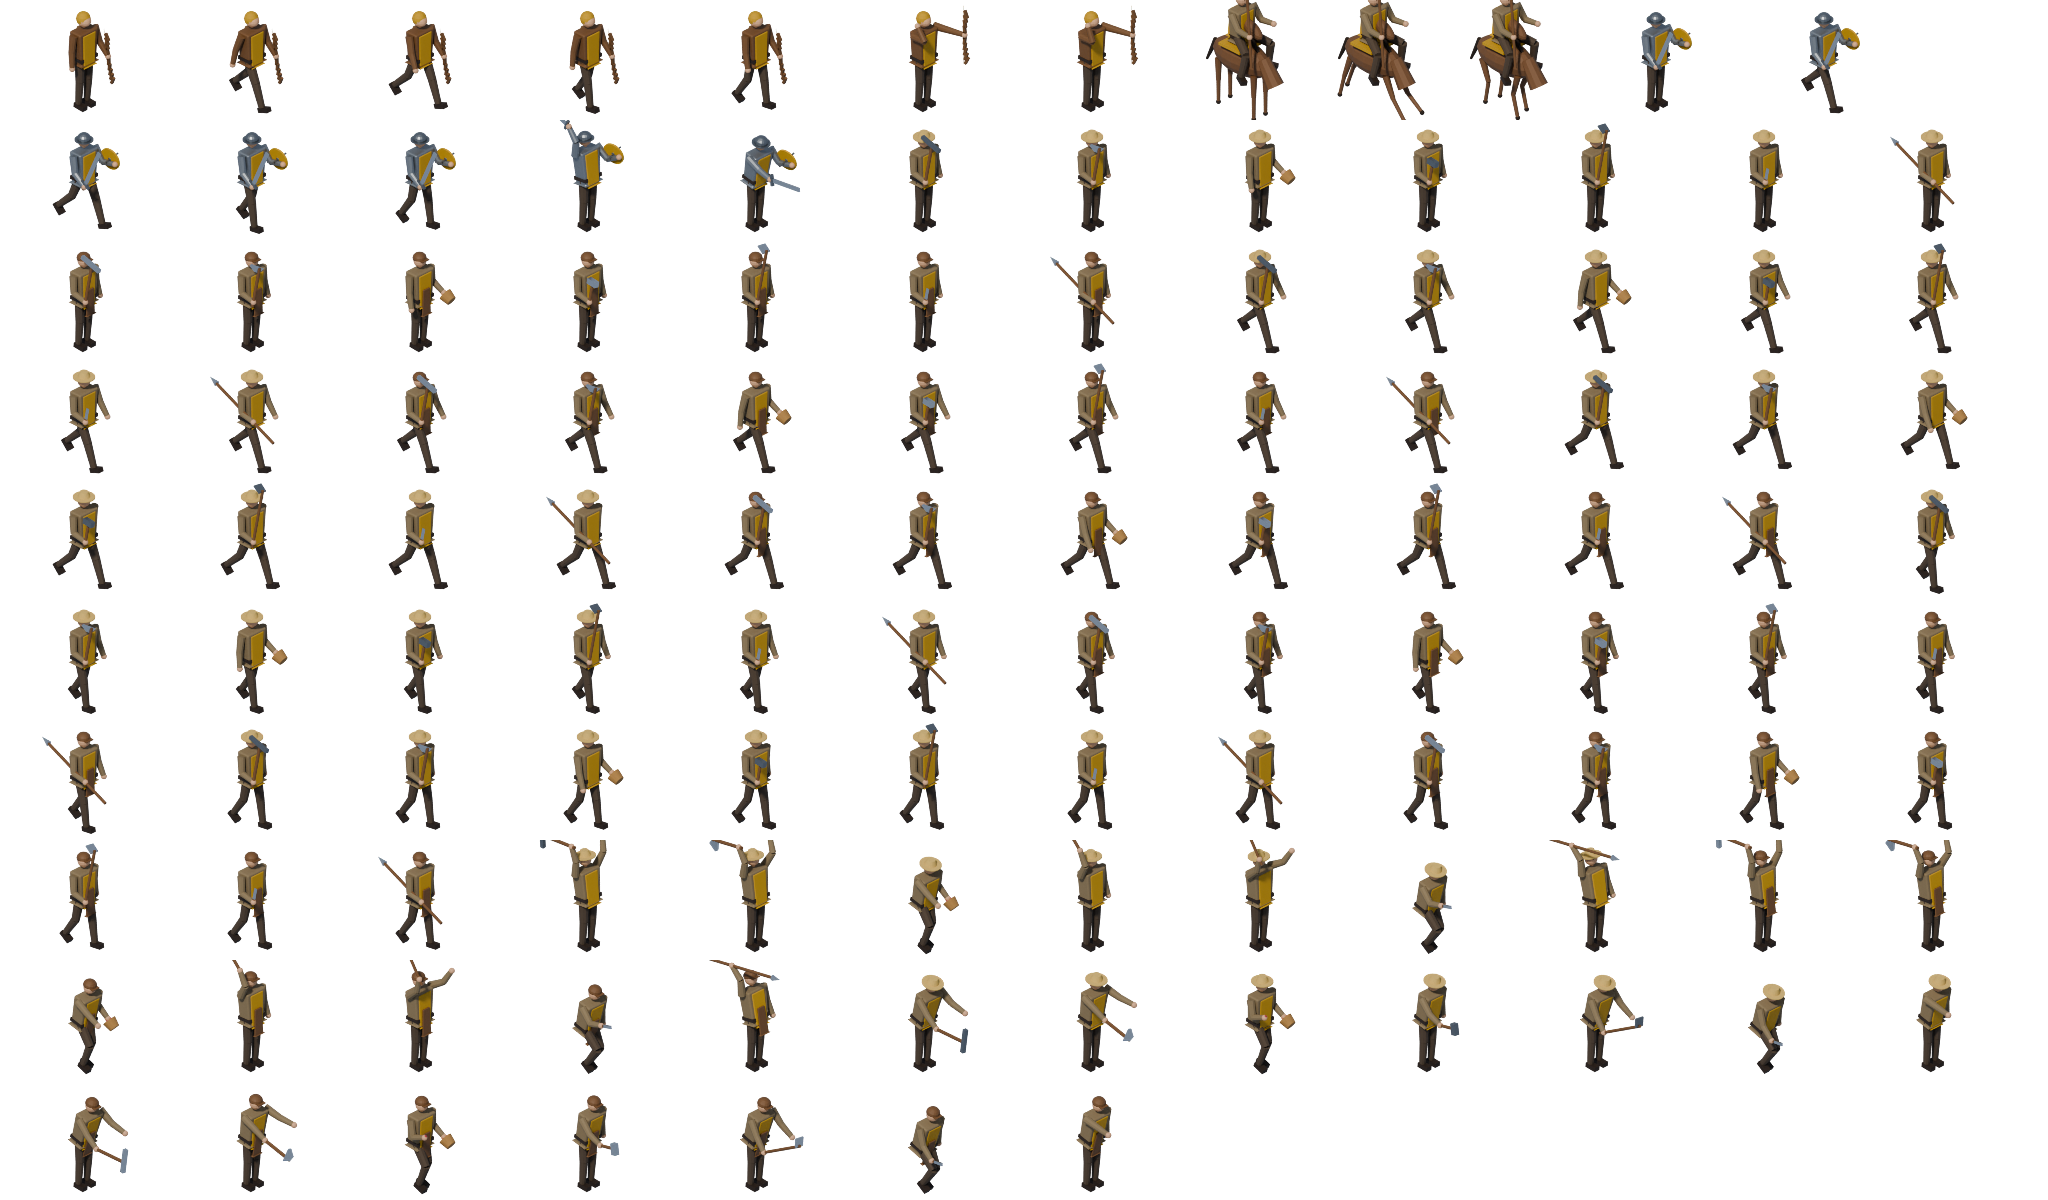
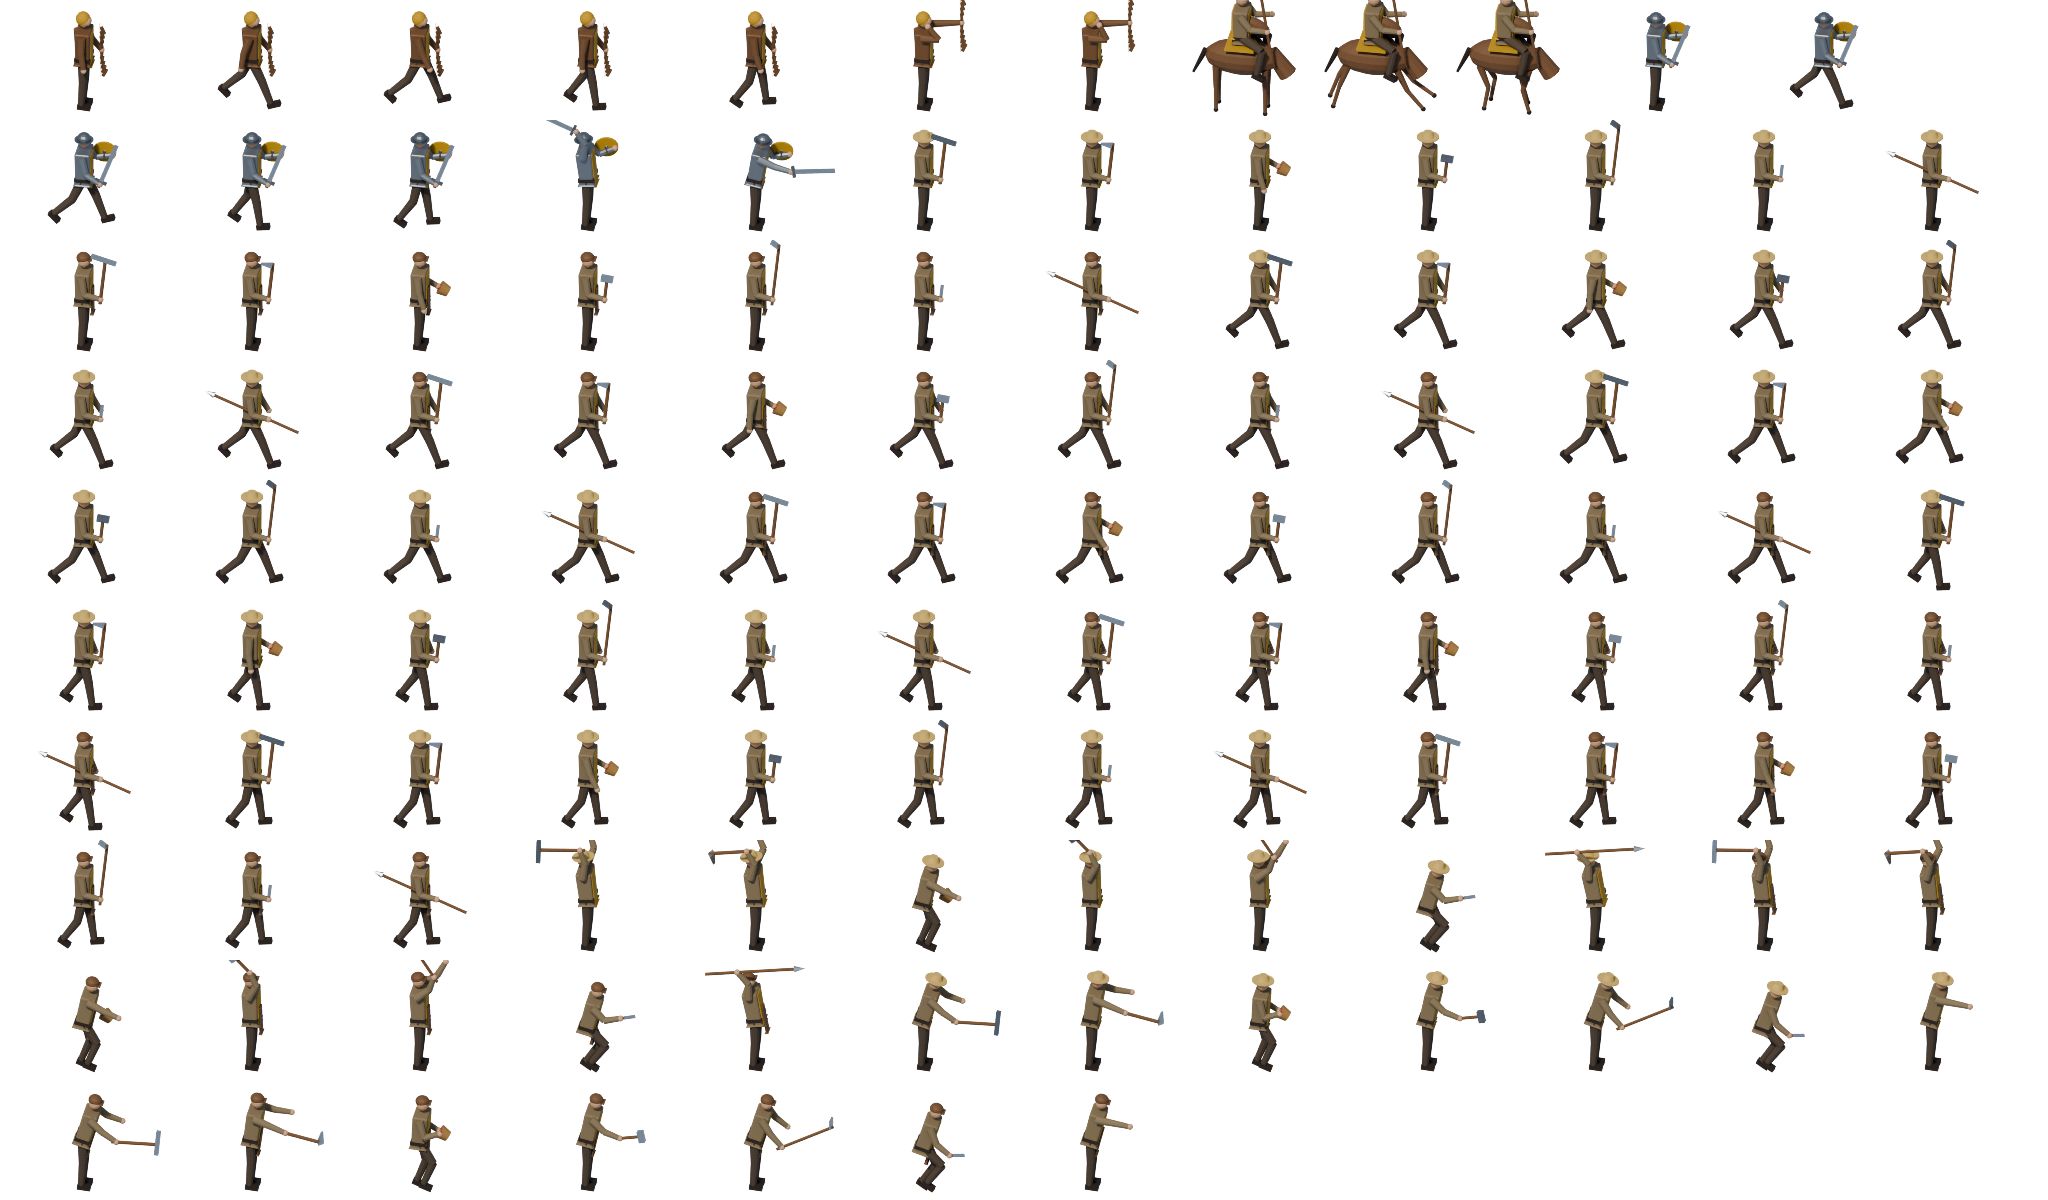
v22 - sideways-facing unit renders; workers stand right at trees, rocks and bushes
- 3D people re-rendered facing screen-right so blows land beside them
- renders record each tool's ground reach; work spots use it
- smarter spot search (step up/down screen first, slide back only if blocked)
- clearance sized per object; remove old assets/buildings (atlas replaces it)

Claude-Session: https://claude.ai/code/session_01CqFksrvwUryoHhnRiJVZRy

diff --git a/src/unit.js b/src/unit.js
@@ -307,29 +307,49 @@ export class Unit {
     const c = jobContact(this.job, this.tier);
     // stand beside it (feet level with its base), so the blow reaches across to it,
     // on open ground (not in among other trees, rocks or buildings) and not inside another worker
-    const MAX = 34; // never more than a short step from where we really are
-    for (const [ox, oy] of [[0, 0], [0, 6], [6, 3], [-6, 3], [16, 8], [-16, -8], [16, -8], [-16, 8], [0, 12], [0, -12]]) {
-      const x = point.x - side * c.x + ox;
-      const y = point.base + 2 + oy;
-      if (Math.hypot(x - home.x, y - home.y) > MAX) continue;
-      if (!this.spotClear(x, y) || this.spotTaken(x, y)) continue;
-      this.workSpot = { x, y, side };
-      return true;
+    // Start at the ideal spot (where the tool's end lands right on it) and, if that's blocked, slide back
+    // towards where we really stand until there's clear ground, so we always end up as close as we can.
+    const MAX = 50; // never more than a short step from where we really are
+    // (the 3D-rendered workers come with where their blow lands over the ground — gx, gy — which is
+    //  what decides where to stand; the older drawn ones only know the sideways reach)
+    const ix = point.x - side * (c.gx != null ? c.gx : c.x);
+    const iy = point.base + (c.gy != null ? -c.gy + 1 : 2);
+    for (const t of [0, 0.12, 0.24, 0.36, 0.5, 0.65, 0.8]) {
+      // (a little up or down the screen keeps the sideways reach; that's tried before giving ground)
+      for (const dy of [0, 5, -5, 10, -10, 15, -15]) {
+        const x = ix + (home.x - ix) * t;
+        const y = iy + (home.y - iy) * t + dy;
+        if (Math.hypot(x - home.x, y - home.y) > MAX) continue;
+        if (!this.spotClear(x, y, point) || this.spotTaken(x, y)) continue;
+        this.workSpot = { x, y, side };
+        return true;
+      }
     }
     return false;
   }
 
   // (visual) Can a worker stand here? Open, walkable ground, and not right on another tree trunk.
-  spotClear(x, y) {
+  // The ground may be the tree / rock / bush tile itself (we step up to the edge of a wood or a quarry),
+  // but never water or a building, and never right on top of another trunk, rock or bush.
+  spotClear(x, y, target = null) {
     const w = fromIso(x, y);
     const tx = Math.floor(w.x / TILE);
     const ty = Math.floor(w.y / TILE);
-    if (!this.map.inBounds(tx, ty) || !this.map.isWalkable(tx, ty, this.team)) return false;
+    if (!this.map.inBounds(tx, ty)) return false;
+    const o = this.order;
+    const ownTile = o && o.tx === tx && o.ty === ty;
+    if (!ownTile && !this.map.isWalkable(tx, ty, this.team)) return false;
+    if (ownTile && this.map.buildingAt && this.map.buildingAt(tx, ty)) return false;
     const trees = this.scene.trees;
-    if (trees) {
-      for (let yy = ty - 1; yy <= ty + 1; yy++) for (let xx = tx - 1; xx <= tx + 1; xx++) {
-        if (!this.map.inBounds(xx, yy) || this.map.get(xx, yy) !== TERRAIN.FOREST) continue;
-        for (const a of trees.standingAnchors(xx, yy)) if (Math.hypot(a.x - x, (a.y - y) * 1.6) < 9) return false;
+    for (let yy = ty - 1; yy <= ty + 1; yy++) for (let xx = tx - 1; xx <= tx + 1; xx++) {
+      if (!this.map.inBounds(xx, yy)) continue;
+      const t = this.map.get(xx, yy);
+      const things = t === TERRAIN.FOREST ? (trees ? trees.standingAnchors(xx, yy) : []) : this.map.objectAnchors(xx, yy);
+      for (const a of things) {
+        if (target && target.anchor && Math.abs(a.x - target.anchor.x) < 0.6 && Math.abs(a.y - target.anchor.y) < 0.6) continue; // (the one we're working)
+        // trunks are thin; bushes and rocks are as wide as they're drawn
+        const r = t === TERRAIN.FOREST ? 8 : 6 + (a.w || 4) * 1.3;
+        if (Math.hypot(a.x - x, (a.y - 2 - y) * 1.6) < r) return false;
       }
     }
     return true;
@@ -337,7 +357,7 @@ export class Unit {
 
   spotTaken(x, y) {
     for (const u of this.scene.units) {
-      if (u !== this && u.workSpot && u.order && u.order.phase === 'work' && Math.hypot((u.workSpot.x - x) * 0.8, (u.workSpot.y - y) * 1.4) < 13) return true;
+      if (u !== this && u.workSpot && u.order && u.order.phase === 'work' && Math.hypot((u.workSpot.x - x) * 0.8, (u.workSpot.y - y) * 1.4) < 15) return true;
     }
     return false;
   }
@@ -369,7 +389,7 @@ export class Unit {
       const pref = home.x <= a.x ? 1 : -1;
       for (const side of [pref, -pref]) {
         // aim at the near side of a rock or bush, the trunk of a tree
-        if (this.aimAt({ x: a.x - side * a.w, base: a.y }, side)) { this.workTarget = a; return; }
+        if (this.aimAt({ x: a.x - side * a.w, base: a.y, anchor: a }, side)) { this.workTarget = a; return; }
       }
     }
     // nowhere good: just work from where we stand, facing it

diff --git a/src/config.js b/src/config.js
@@ -1,6 +1,6 @@
 // Global settings for the game. Change numbers here to tweak the game.
 
-export const GAME_VERSION = 'v21';
+export const GAME_VERSION = 'v22';
 export const TICK_MS = 50;   // the simulation moves in fixed 50 ms steps (20 per second)
 export const TILE = 32;      // size of one map tile in pixels
 // Map size in tiles. 1 v 1 games use 64 × 64; games with 3–4 sides use a bigger map (see mapSizeFor).

diff --git a/sw.js b/sw.js
@@ -1,7 +1,7 @@
 // Service worker: lets the installed game run offline.
 // Strategy: always try the network first (so updates show up straight away), fall back to the saved copy when offline.
 // Bump CACHE when you want old offline copies thrown away.
-const CACHE = 'age-of-emissions-v19';
+const CACHE = 'age-of-emissions-v20';
 const FILES = [
   './',
   'index.html',

diff --git a/tools/render_units.py b/tools/render_units.py
@@ -14,6 +14,8 @@ UNIT_RES, UNIT_SCALE = 3, 0.86             # must match art.js
 PERSON = (56, 40, 28, 34.4)               # canvas w, h and where the feet are (art.js: 32 + 2·PAD, origin 0.5/0.86)
 RIDER = (44, 40, 22, 36)                  # the scout's canvas (origin 0.5/0.9)
 K = 19.8                                  # canvas units per metre: a 1.75 m person is ~30 units tall, like the drawn ones
+FACING = 35                               # people face screen-right, turned 10° towards the camera so you see their faces
+                                          # (side-on, so a blow lands beside them: they can stand next to what they work)
 FRAMES = [(0, 0), (1, 0), (-1, 0), (0.5, 0), (-0.5, 0), (0, 1), (0, 2)]  # (leg step, pose) for frames 0–6
 JOBS = ['pick', 'axe', 'hammer', 'hoe', 'knife', 'spear', 'forage']
 
@@ -352,7 +354,12 @@ def key(utype, team, frame, job=None, tier=0):
     return f"u_{utype}_{team}{f'_w{frame}' if frame else ''}{f'_t{tier}' if tier else ''}{f'_{job}' if job and job != 'pick' else ''}"
 
 
+CONTACTS_ONLY = '--contacts-only' in sys.argv
+
+
 def shoot(sc, name):
+    if CONTACTS_ONLY:
+        return
     sc.render.filepath = os.path.join(OUT, name + '.png')
     bpy.ops.render.render(write_still=True)
 
@@ -360,9 +367,14 @@ def shoot(sc, name):
 def contact_of(sc, cam, tip, canvas):
     W, H, fx, fy = canvas
     bpy.context.view_layer.update()
-    p = world_to_camera_view(sc, cam, tip.matrix_world.translation)
+    w = tip.matrix_world.translation
+    p = world_to_camera_view(sc, cam, w)
     cx, cy = p.x * W, (1 - p.y) * H
-    return {'x': round((cx - fx) * UNIT_SCALE, 2), 'y': round((cy - fy) * UNIT_SCALE, 2)}
+    # also the point on the ground right under it: how far in front of the feet the blow lands
+    g = world_to_camera_view(sc, cam, Vector((w.x, w.y, 0)))
+    gx, gy = g.x * W, (1 - g.y) * H
+    return {'x': round((cx - fx) * UNIT_SCALE, 2), 'y': round((cy - fy) * UNIT_SCALE, 2),
+            'gx': round((gx - fx) * UNIT_SCALE, 2), 'gy': round((gy - fy) * UNIT_SCALE, 2)}
 
 
 def render_person(utype, team, keys, contacts, tier=0):
@@ -372,6 +384,7 @@ def render_person(utype, team, keys, contacts, tier=0):
         sc, cam = setup(PERSON)
         M = materials(team)
         person = Person(M, utype, job, tier)
+        person.root.rotation_euler.z = math.radians(FACING)
         spec = worker_spec(job) if utype == 'worker' else SPECS[utype]
         for f, (step, p) in enumerate(FRAMES):
             person.pose(step, p, spec)
@@ -391,6 +404,7 @@ def render_scout(team, keys):
     sc, cam = setup(RIDER)
     M = materials(team)
     root = empty(None)
+    root.rotation_euler.z = math.radians(FACING)
     h, legs = horse(M, root)
     rider = Person(M, 'scout')
     rider.root.parent = root
